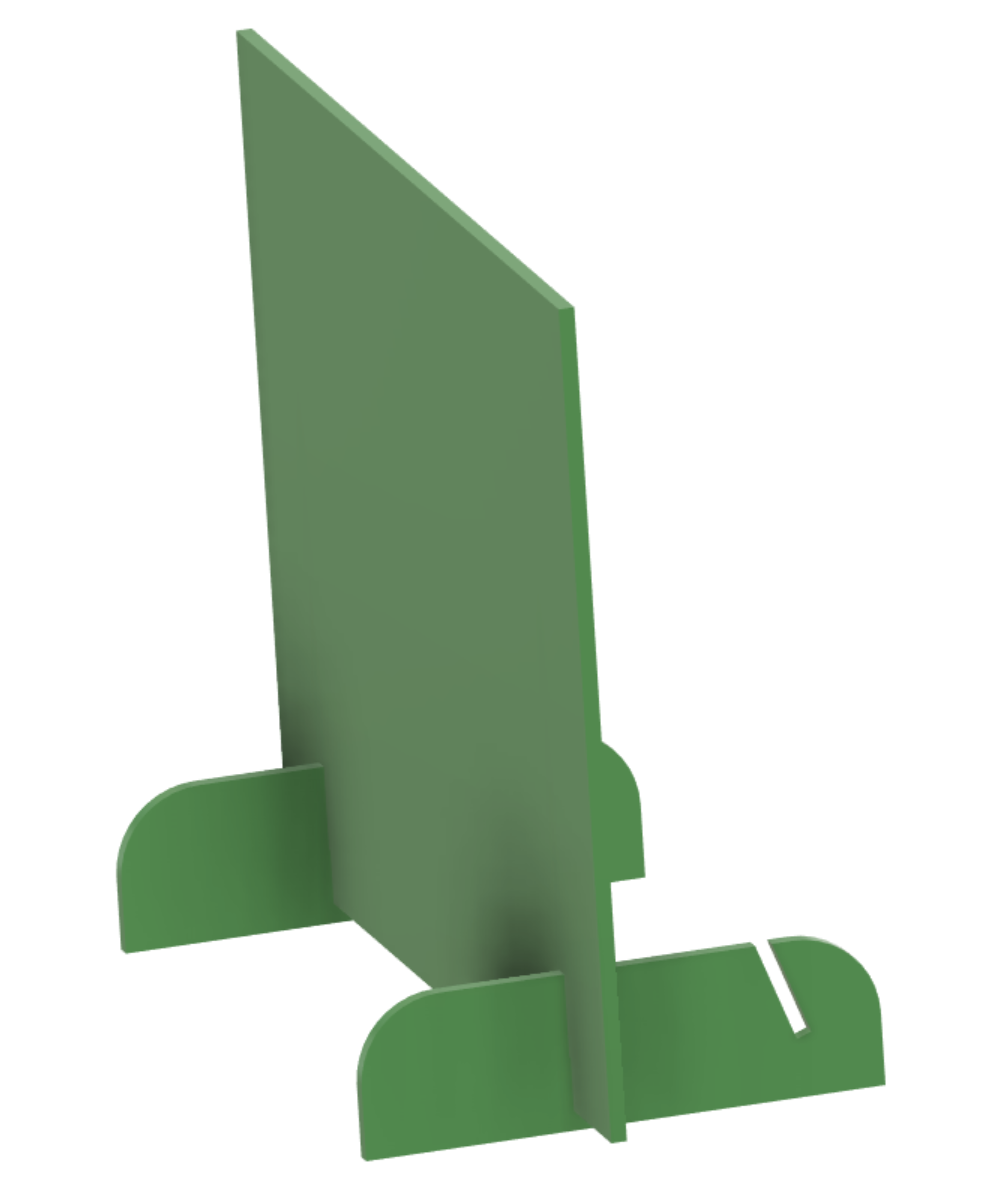
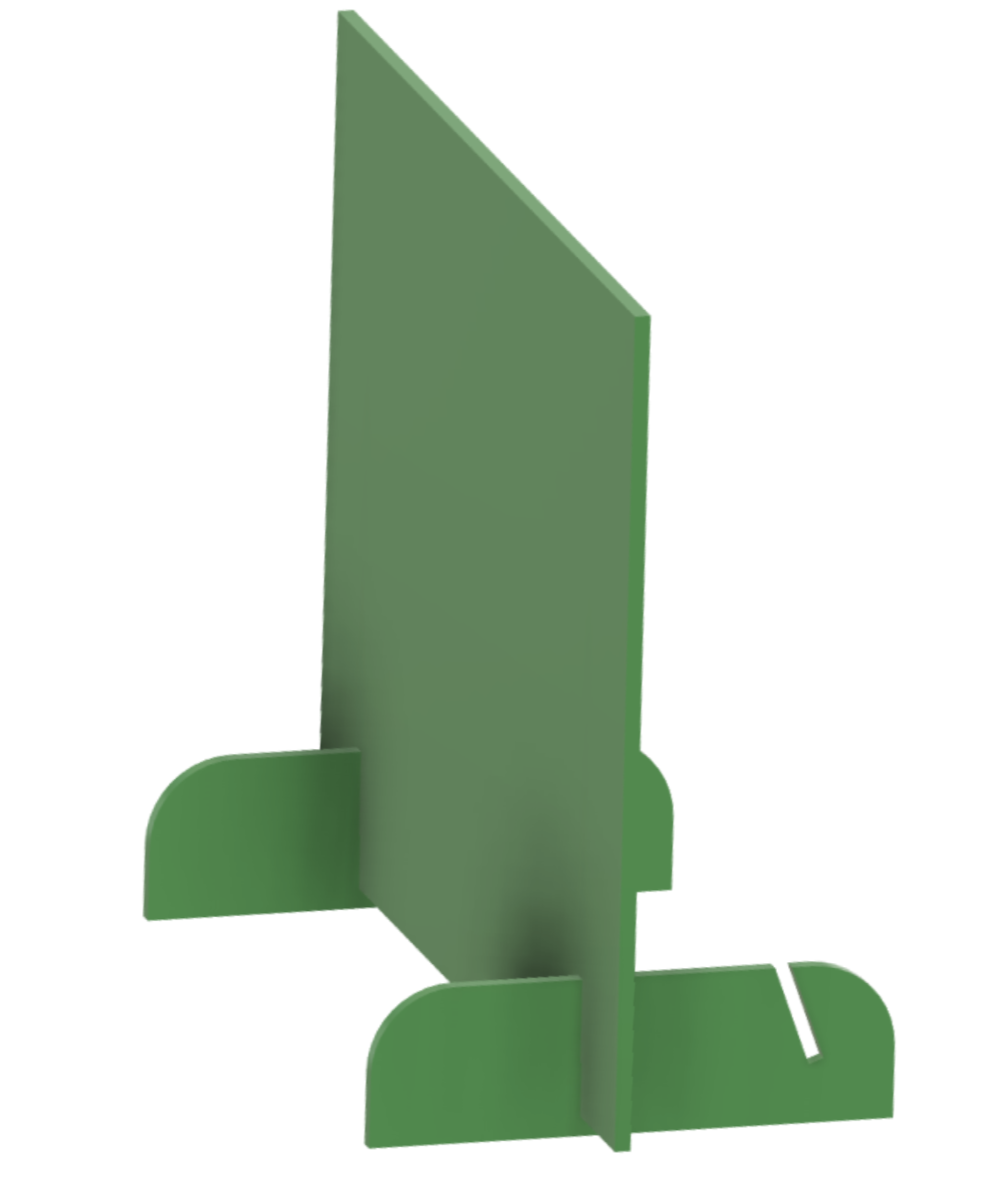
standmodel updated

diff --git a/standmodel/readme.md b/standmodel/readme.md
@@ -1,3 +1,36 @@
 # Stand model
 
+I modeled (in [Fusion 360](https://www.autodesk.eu/products/fusion-360) how the PCB could stand-up using feet made as part of the PCB.
+
+## Idea outline
+
+The key idea is to use slots to join two planes.
+
+The maximum PCB size of the "makers deal" at [JLCPCB](https://jlcpcb.com) is 100 mm by 100 mm (actually 4 in by 4 in).
+The two feet are made of a 15 mm strip at the bottom (full length 0f 100 mm), 
+so the main part is for the actual PCB: 83 mm by 100 mm. Note that 15 plus 83 is 98, we have 2 for separation slits.
+
+I decided that each foot has _two_ slots: one straight and one at 75 degrees so that you have two options for the stand: 
+straight and slanted.
+
+![concept](concept.png)
+
+## Dimensions
+
+The PCB thickness is 1.6 mm, to have a tight fit I made the slots 1.5 mm.
+
+![design](Dimensions.png)
+
+
+## Artist impression
+
+![slanted](feet-slanted.png)
+
+![straight](feet-straight.png)
+
+## Next step
+
+Next step is to create the actual "board outline" for the PCB.
+This includes gaps for the digits. See [pcboutline](../pcboutline).
+
 (end)
